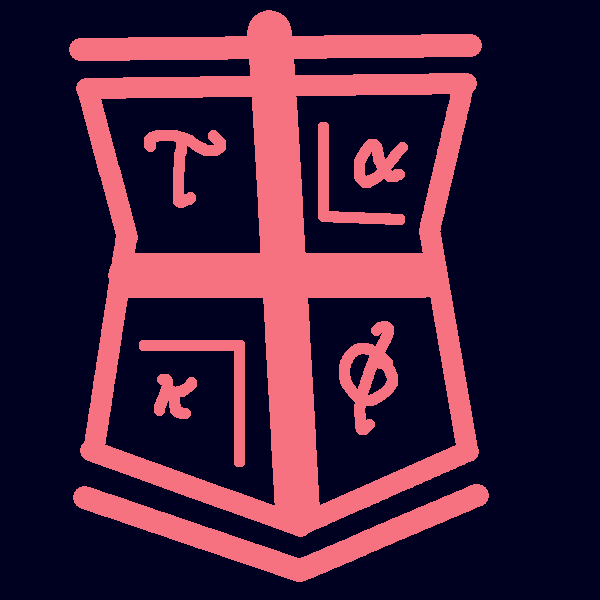
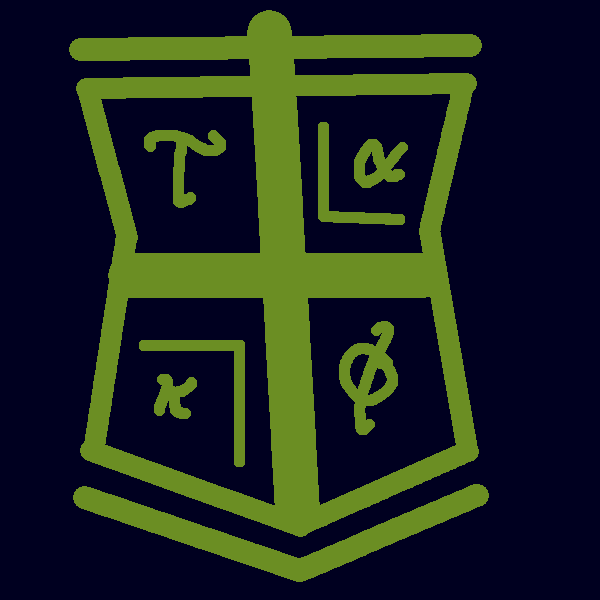
Added new color schemes

Changed region(s): [[0.12, 0.0, 0.81, 0.99], [0.24, 0.21, 0.39, 0.36]]

diff --git a/assets/js/main.js b/assets/js/main.js
@@ -17,11 +17,31 @@ const themes = {
       "vars": {
          "main-bg-color": "#000020",
          "main-fg-color": "#f67280",
-         "link-color": "#5efb6e",
+         "link-color": "#6b8e23",
          "code-bg-color": "black",
          "code-fg-color": "white"
       },
       "icon": "arms_sakura.png"
+   },
+   "vampiro": {
+      "vars": {
+         "main-bg-color": "#000020",
+         "main-fg-color": "#990012",
+         "link-color": "#009987",
+         "code-bg-color": "black",
+         "code-fg-color": "white"
+      },
+      "icon": "arms_vampiro.png"
+   },
+   "power": {
+      "vars": {
+         "main-bg-color": "#012456",
+         "main-fg-color": "#61d6d6",
+         "link-color": "#cccccc",
+         "code-bg-color": "black",
+         "code-fg-color": "white"
+      },
+      icon: "arms_power.png"
    }
 };
 

diff --git a/_layouts/default.html b/_layouts/default.html
@@ -22,7 +22,8 @@
       <select name="theme" id="themeSelector" onchange="setColors(this.value)">
          <option value="coder">Coder</option>
          <option value="sakura">Sakura</option>
-         <option value="commodore">Commodore</option>
+         <option value="vampiro">Vampiro</option>
+         <option value="power">Power</option>
       </select>
 
       <h2 id="univtitle"> Tom Faulhaber's Website </h2>
